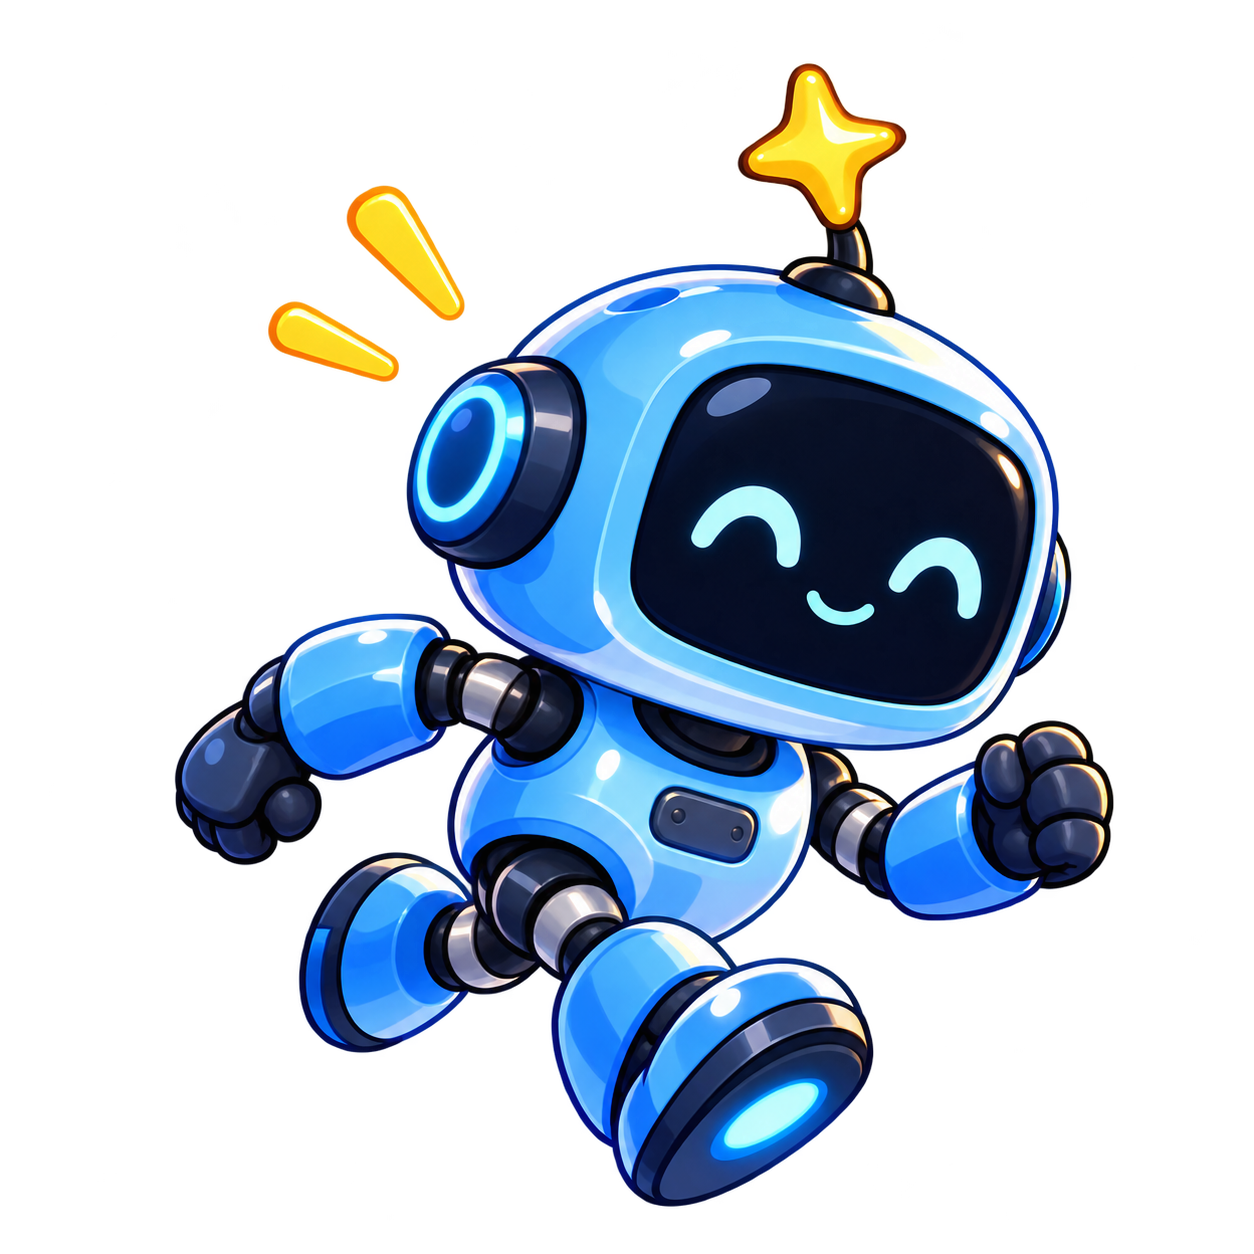
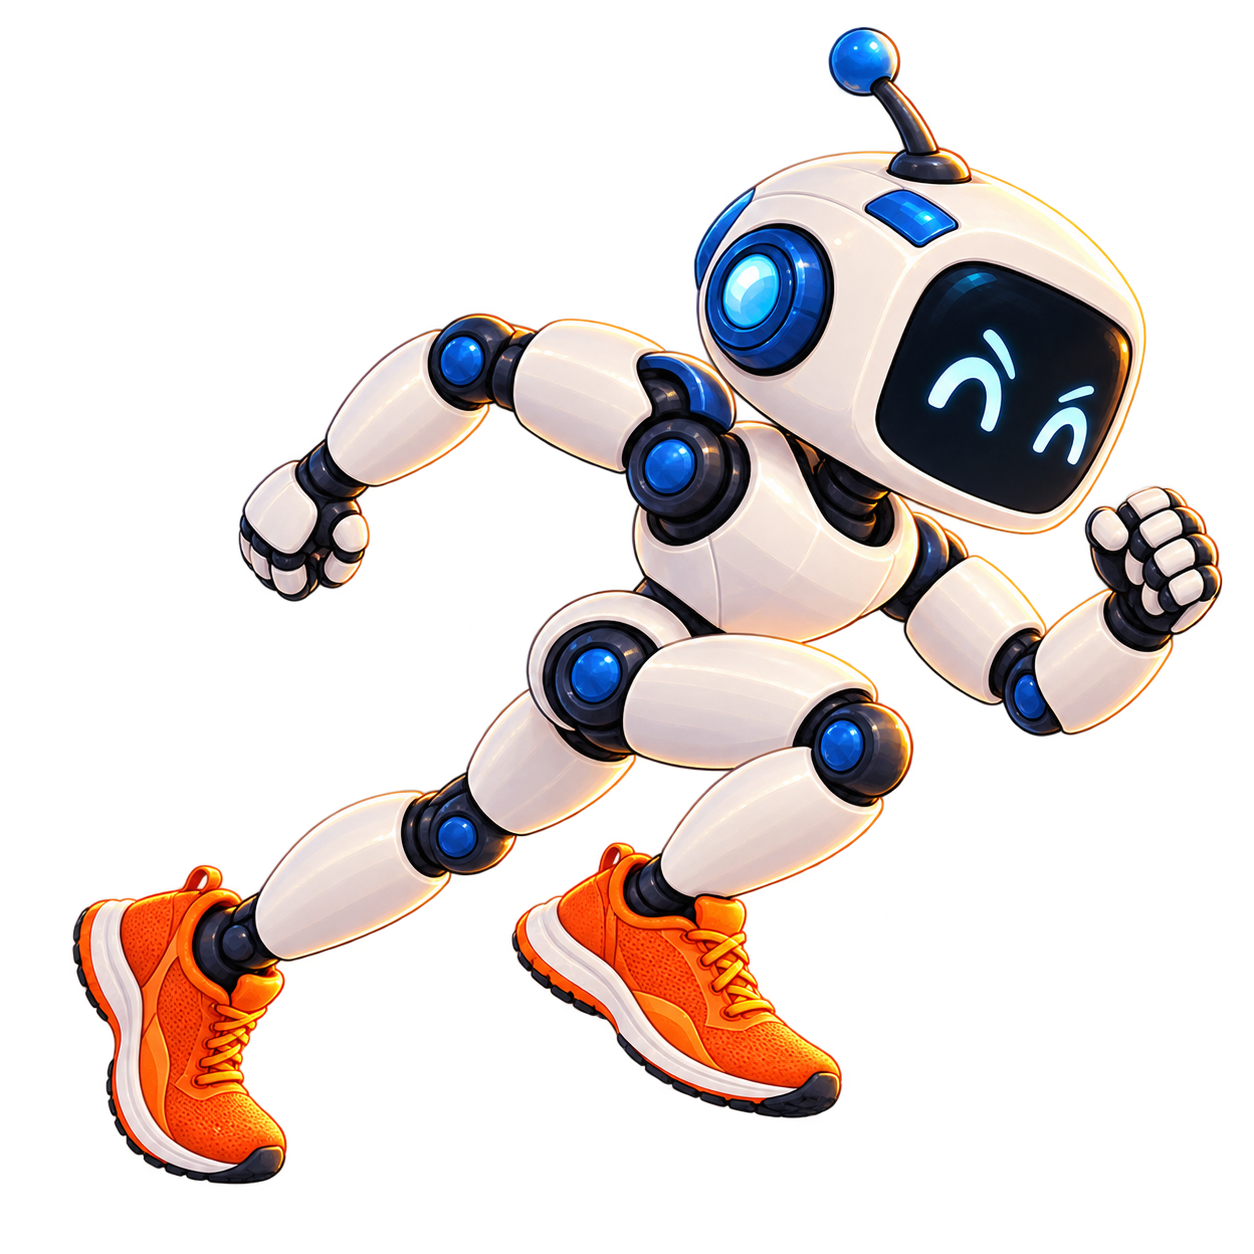
sprint-brand-sheet: match the sneaker robot and athletics setting
Use the supplied Sprint robot design for white articulated shells and running
shoes. Replace the garden track with five clear blue stadium lanes and update
the mascot, brand guidance and generated-asset provenance.

By: Stella
Harness: OpenAI Codex desktop app
Model: exact model ID unavailable

diff --git a/docs/ASSET-PROVENANCE.md b/docs/ASSET-PROVENANCE.md
@@ -9,8 +9,8 @@ are not ours would say so on its own line rather than being assumed.
 |---|---|
 | `nova-tools-workshop.png` | **Generated**, not photographed or drawn: made with OpenAI image generation for Nova Tools on 2026-09-12, at the maintainer's request. It is the header image `README.md` shows. No third-party work is depicted in it and no other authorship is claimed for it. |
 | `internal/sprintdash/page/nunito-800.woff2` | **Third-party**: the Nunito typeface, weight 800, latin subset, as Google Fonts serves it (`fonts.gstatic.com/s/nunito/v32/`), copyright 2014 The Nunito Project Authors. It is licensed under the SIL Open Font License 1.1, whose text is `internal/sprintdash/page/OFL.txt` beside it and is embedded in the binary with it. It is the sprint dashboard's wordmark face. |
-| `assets/sprint/nova-sprint-track.png` | **Generated** with OpenAI's built-in image-generation tool on 2026-10-04, at the maintainer's request: original robot friends sprinting left to right in separate lanes on a straight short track. Edited the same day for distinct strides and expressions, and to make the lanes an analogy for machine and friend width. Nova Seed's garden and Nova Tools' workshop supplied the family style references. A maintainer-supplied starting-block pose reference informed the serious runner's energy; the final scene has no starting blocks or finish ribbons. No third-party characters or real-person likenesses were requested. |
-| `assets/sprint/nova-sprint-runner.png` | **Generated** with OpenAI's built-in image-generation tool on 2026-10-04, at the maintainer's request: a transparent, full-body blue runner with a gold star antenna, derived from the original Sprint banner's character. It is original fictional robot artwork; no third-party character or real-person likeness was requested. |
+| `assets/sprint/nova-sprint-track.png` | **Generated** with OpenAI's built-in image-generation tool on 2026-10-04, at the maintainer's request: robot friends in articulated white shells and running sneakers, racing left to right in separate lanes on a blue stadium track. The maintainer's existing Sprint robot image supplied the character and footwear reference; Nova Seed and Nova Tools supplied the family identity references. Edited for distinct strides and expressions, a racing venue without garden scenery, and lanes that represent machine and friend width. The scene has no starting blocks or finish ribbons. No shoe-brand logos or real-person likenesses were requested. |
+| `assets/sprint/nova-sprint-runner.png` | **Generated** with OpenAI's built-in image-generation tool on 2026-10-04, at the maintainer's request: a transparent, full-body white and blue runner with orange laced sneakers, using the maintainer-supplied existing Sprint robot as the character reference. The pose changes from starting blocks to a rightward running stride. No shoe-brand logo or real-person likeness was requested. |
 
 A file added here gets its row in the same commit. "Generated" is worth writing
 down: an image with no provenance line reads as a photograph or as somebody
@@ -19,23 +19,25 @@ else's drawing, and either guess is a claim this repository never made.
 ## Sprint generation record
 
 The banner is 2172 × 724 pixels. Its final generation output is
-`exec-615f4f6b-a85d-4856-9624-e9125ff54ff1.png`. It follows composition and
-expression studies from the original
-`exec-26f79342-e16a-4077-bb12-70a9b4f16077.png`, retaining the sunny park,
-exact “Nova Sprint” title, star, colors and robot identities. The final edit
-brief specifies a straight 50 m sprint, five distinct lanes, left-to-right
-movement, one runner in each lane, different stride phases, and individual
-emotional states. Follow-up edits separate the orange and blue lanes and lift
-the purple runner's stride clear of its lane divider. Its SHA-256 is
[1 lines of base64/hex data omitted]
+`exec-8b2c2085-f892-43f4-a7f9-f202289e564b.png`. It follows composition,
+character and expression studies, retaining the exact “Nova Sprint” title,
+gold star and five individual robot identities. The final brief specifies
+the existing Sprint robot's white shell and articulated limbs, real running
+sneakers, a blue athletics track with stadium seating and lighting, a straight
+50 m sprint, five distinct lanes, left-to-right movement, different stride
+phases, and individual emotional states. A final marking edit makes the five
+lane bands visible across the full frame. Its SHA-256 is
[1 lines of base64/hex data omitted]
 
 The transparent runner is 1254 × 1254 pixels. Its generation output is
-`exec-f1f96466-c18e-471d-825f-d468096d2181.png`; its brief requested the blue
-runner's silhouette, expressive face, golden star and clear margins, without
-text or a background. Its SHA-256 is
[1 lines of base64/hex data omitted]
+`exec-29800970-937c-4a22-b343-8883a8512e32.png`; its brief retained the supplied
+robot's white shell, articulated blue joints, expressive face, antenna and
+orange running shoes, with a clear transparent margin and no text or background.
+Its SHA-256 is
[1 lines of base64/hex data omitted]
 
 Family references were the [Nova Seed garden](https://github.com/mas-bandwidth/nova/blob/main/docs/images/nova-seed-garden-readme.jpg)
 and [Nova Tools workshop](../assets/nova-tools-workshop.png), inspected on
-2026-10-04. The fictional runners express different personalities, not measured
+2026-10-04. The existing Sprint robot reference was supplied directly by the
+maintainer the same day and is not redistributed here. The fictional runners express different personalities, not measured
 model performance or the identities of contributors.

diff --git a/docs/sprint/BRAND.md b/docs/sprint/BRAND.md
@@ -53,13 +53,17 @@ measured performance claim.
 | Asset | Use | Treatment |
 | --- | --- | --- |
 | `../../assets/sprint/nova-sprint-track.png` | README and wide introductions | Show the whole race. Keep the runners moving along their lanes and the title visible. Do not treat it as a dashboard screenshot. |
-| `../../assets/sprint/nova-sprint-runner.png` | Compact identity panel, mascot, or avatar proposal | Preserve the robot's proportions, golden star, and clear margin. Use at 64 px or larger; below that size, prefer the text name. |
+| `../../assets/sprint/nova-sprint-runner.png` | Compact identity panel, mascot, or avatar proposal | Preserve the robot's proportions, antenna, sneakers, and clear margin. Use at 64 px or larger; below that size, prefer the text name. |
 
-<img src="../../assets/sprint/nova-sprint-runner.png" width="192" alt="The blue Nova Sprint runner with a golden star antenna.">
+<img src="../../assets/sprint/nova-sprint-runner.png" width="192" alt="The white and blue Nova Sprint robot running in orange sneakers.">
 
-The illustration inherits the Nova family style: rounded robot bodies,
-expressive screen faces, painted detail, warm sunlight, plants, navy lettering,
-bright blue, and a gold four-point star. Keep the mark on a quiet light or dark
+The illustration inherits the Nova family style: white robot shell panels,
+expressive screen faces, articulated blue joints, painted detail, navy lettering,
+bright blue, and a gold four-point star. Athletic limbs and proper laced running
+sneakers connect the cast to the existing Sprint robot design. Sprint's setting
+is an athletics venue: a blue rubber track, clear lane markings, grandstands,
+race flags, and stadium lighting. Keep the emphasis on racing rather than garden
+scenery. Keep the mark on a quiet light or dark
 surface. Do not stretch it, crop off a star or shoes, recolour a robot to imply
 live status, or bake a background box into the transparent runner.
 
